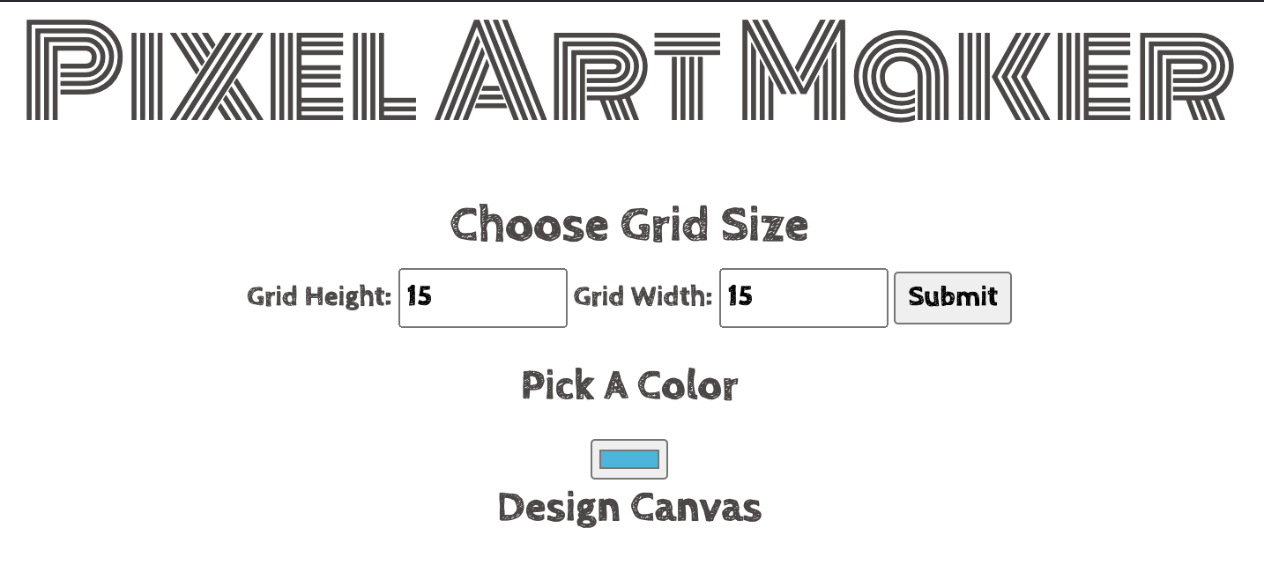
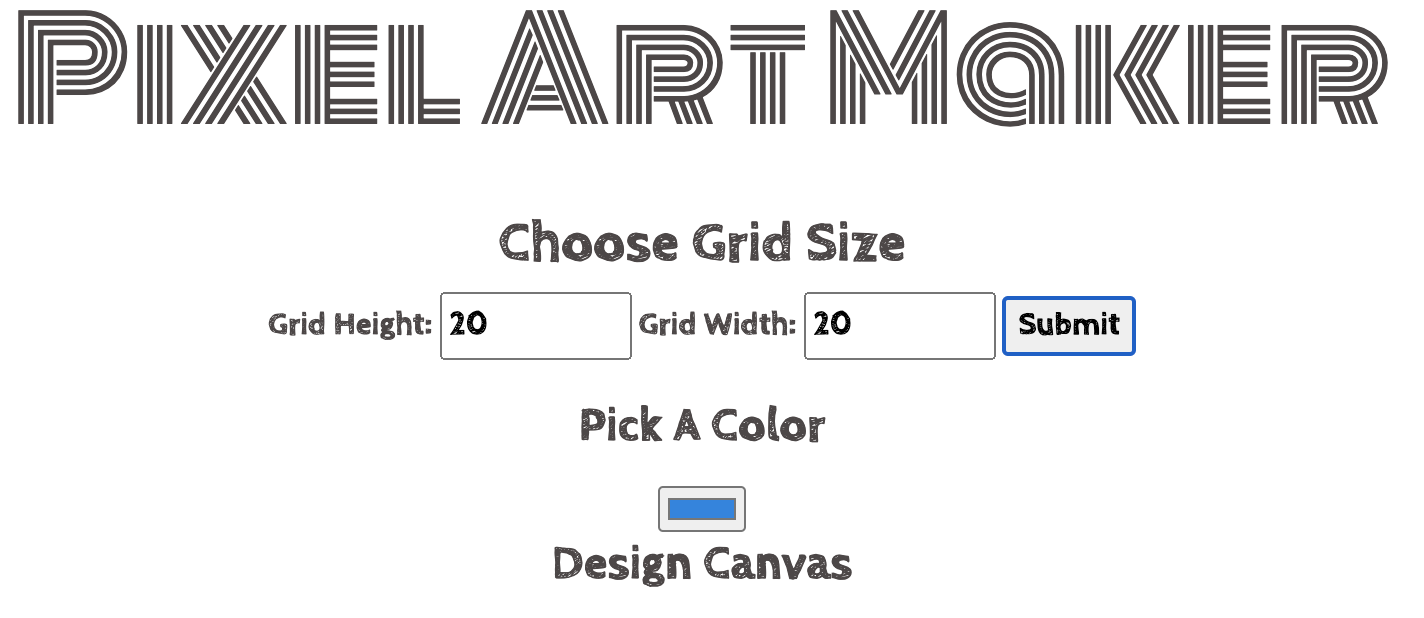
images update

Changed region(s): [[0.0, 0.0, 1.0, 0.2143], [0.1851, 0.3367, 0.8022, 0.5816], [0.3703, 0.6122, 0.6171, 0.949]]

diff --git a/README.md b/README.md
@@ -32,6 +32,8 @@ understanding of Python syntax, give you practice with fundamental
 programming logic, and demonstrate your ability to solve problems
 with code.
 
+![image](adventure-game.gif)
+
 ![image](adventure-game.png)
 
 ## :computer: Intro to JavaScript
@@ -42,6 +44,8 @@ Learn the fundamental concepts of JavaScript. The most popular web programming l
 
 >For this project, you’ll build a single-page web app that allows users
 to draw pixel art on a customizable canvas!
+
+![image](pixel-art-maker.gif)
 
 ![image](pixel-art-maker.png)
 
